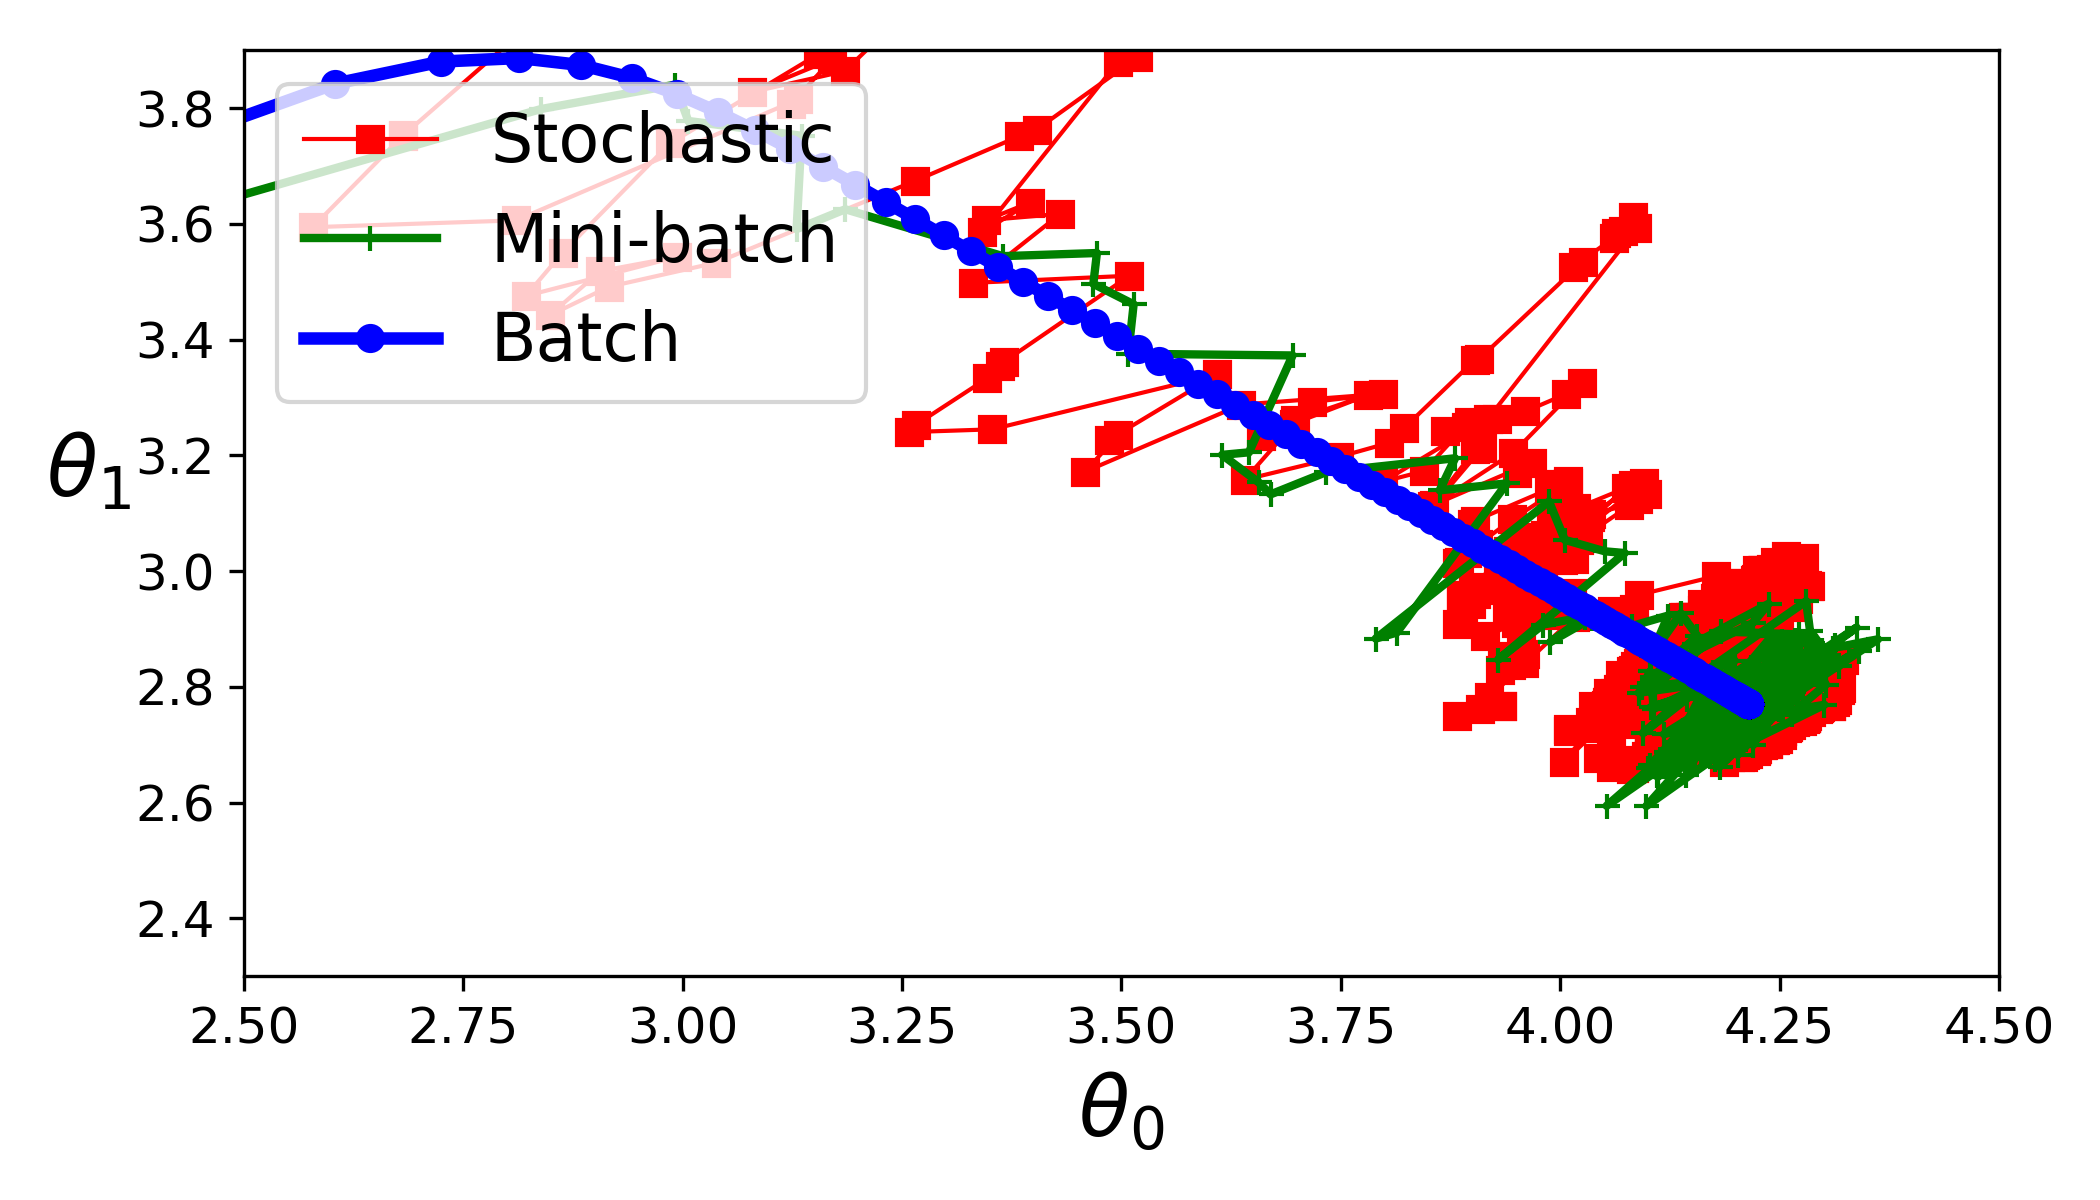
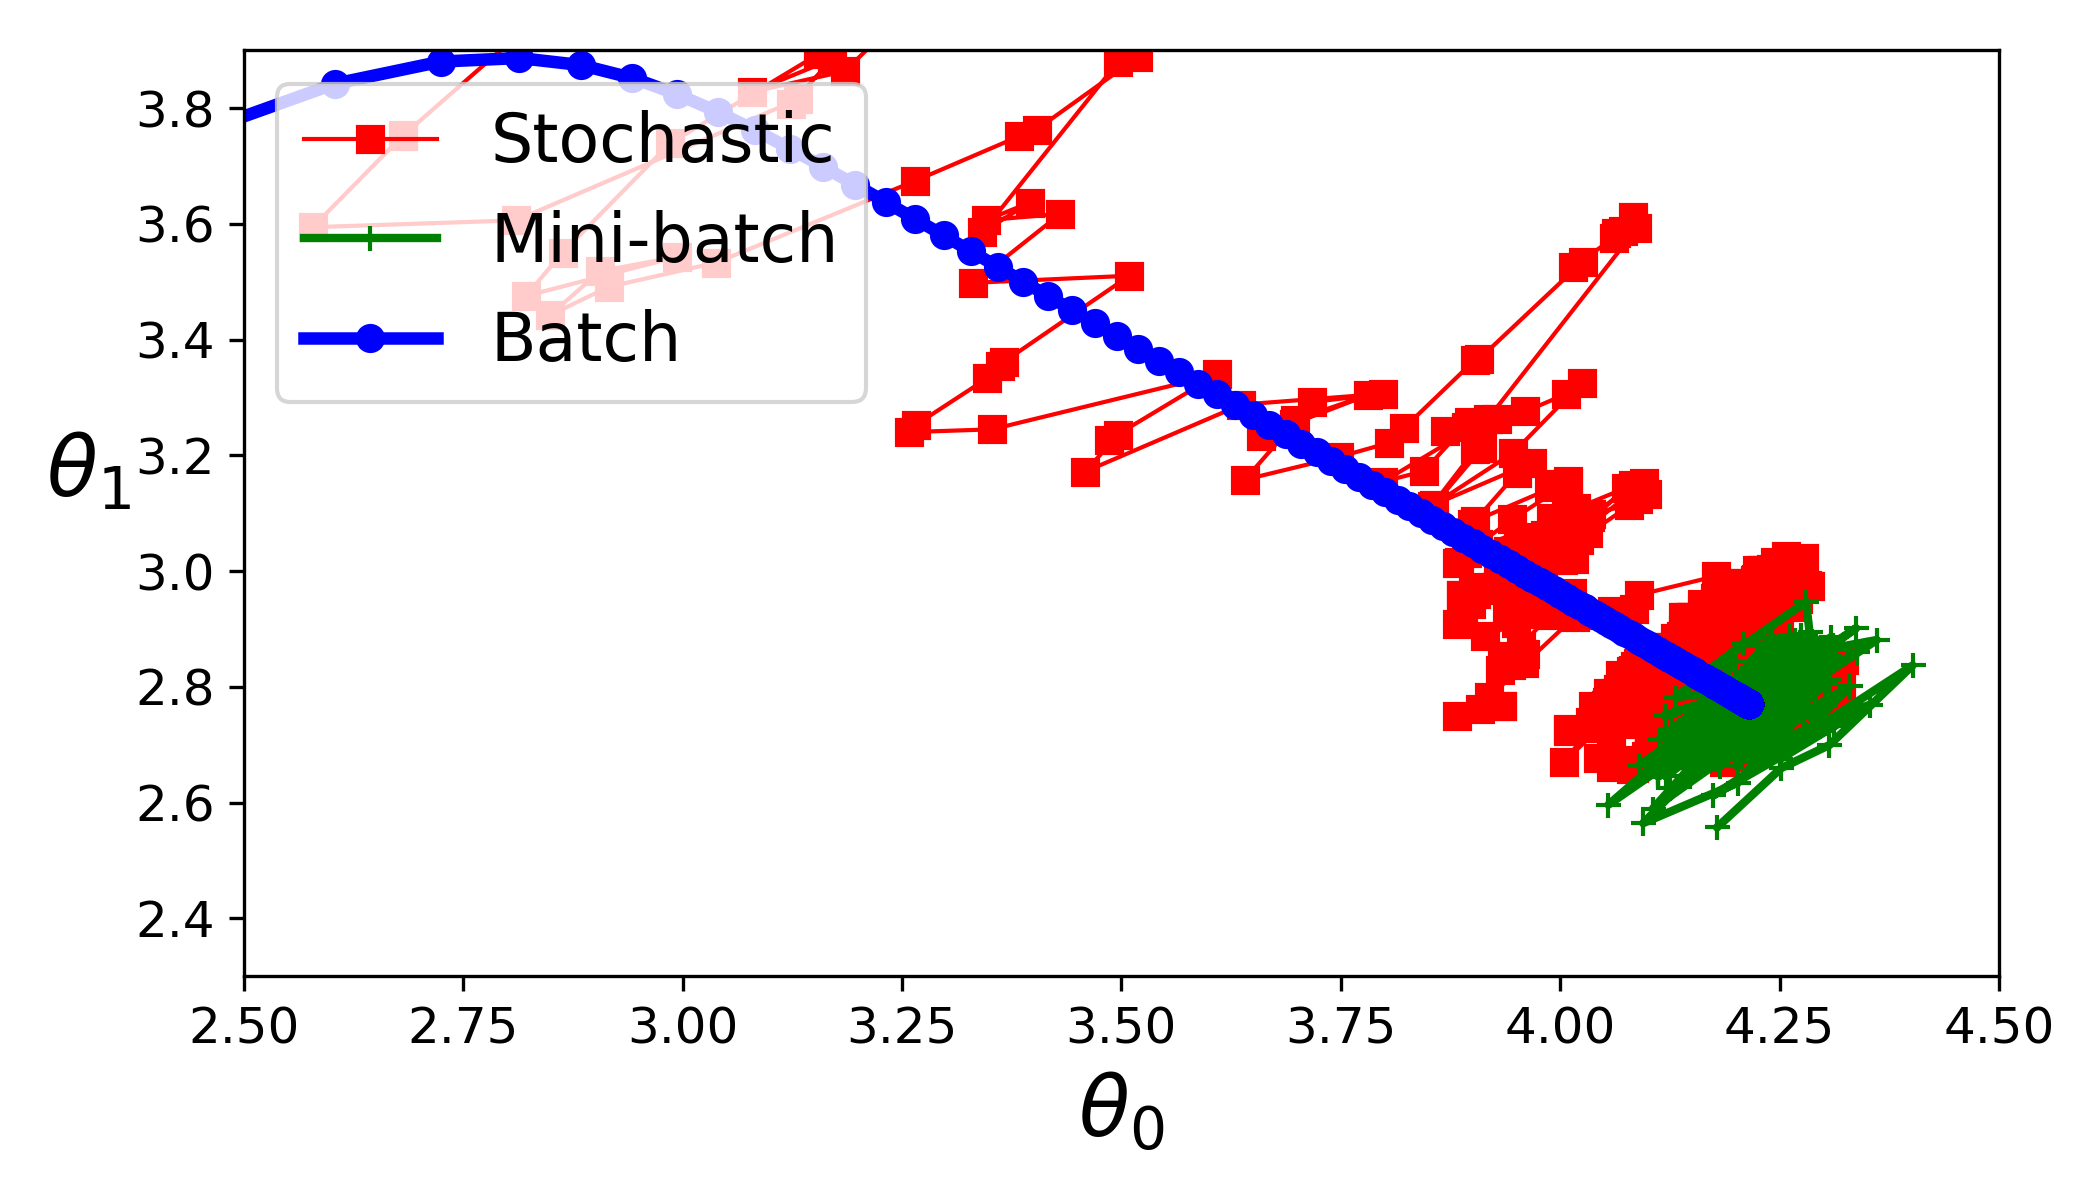
add some comments, Polynomial regression, and learning curve

diff --git a/Training_Linear_modells/Training_linear_modell.py b/Training_Linear_modells/Training_linear_modell.py
@@ -5,18 +5,20 @@ import os
 import matplotlib
 import matplotlib.pyplot as plt
 import sklearn.linear_model
+import sklearn.preprocessing
+import sklearn.pipeline
 
 rnd.seed(42)
 plt.rcParams["axes.labelsize"] = 14
 plt.rcParams["xtick.labelsize"] = 12
 plt.rcParams["ytick.labelsize"] = 12
-#
+
 PROJECT_ROOT_DIR = os.getcwd()
 
 
 def save_fig(fig_id, tight_layout=True):
     """
-
+    Save plot as .png file.
     :param fig_id: must be a String
     :param tight_layout: Automatically adjust subplot parameters to give specified padding.
     :return:
@@ -32,8 +34,8 @@ def save_fig(fig_id, tight_layout=True):
 
 
 # generate some linear-looking data to test normal equation.
-X = 2 * np.random.rand(100, 1)
-y = 4 + 3 * X + np.random.randn(100, 1)
+X = 2 * np.random.rand(100, 1)  # Generate 100 rows 1 column, column vector like.
+y = 4 + 3 * X + np.random.randn(100, 1)  # randn() generate standard normal distribution
 
 plt.plot(X, y, "b.")
 plt.xlabel("$x_1$", fontsize=18)
@@ -42,8 +44,8 @@ plt.axis([0, 2, 0, 15])
 save_fig("generated_data_plot")
 
 # Now compute the Normal Equation.
-X_b = np.c_[np.ones((100, 1)), X]  # add x0=1 to each instance
-theta_best = np.linalg.inv(X_b.T.dot(X_b)).dot(X_b.T).dot(y)
+X_b = np.c_[np.ones((100, 1)), X]  # add x0=1 to each instance.
+theta_best = np.linalg.inv(X_b.T.dot(X_b)).dot(X_b.T).dot(y)  # Normal equations
 
 print(theta_best)
 """
@@ -54,7 +56,7 @@ close enough to y = 4 + 3x, the noise make it impossible to get exact 4 and 3.
 
 # Now use the best theta to predict.
 X_new = np.array([[0], [2]])
-X_new_b = np.c_[np.ones((2, 1)), X_new]  # add x0=1 to each instance
+X_new_b = np.c_[np.ones((2, 1)), X_new]  # add x0=1 to each instance  np.c_按行拼贴，即将两个数组的列并在一起
 y_predict = X_new_b.dot(theta_best)
 print(y_predict)
 
@@ -72,6 +74,7 @@ lin_reg.fit(X, y)
 print(lin_reg.intercept_)
 print(lin_reg.coef_)
 lin_reg.predict(X_new)
+
 # End
 
 
@@ -92,10 +95,10 @@ def plot_gradient_descent(theta, eta, theta_path=None, steps=10, n_iterations=10
     for iteration in range(n_iterations):
         if iteration < steps:
             y_predict = X_new_b.dot(theta)
-            style = "b-" if iteration > 0 else "r--"
+            style = "b-" if iteration > 0 else "r--"  # 第一步画红虚线，后面的画蓝线
             plt.plot(X_new, y_predict, style)
-        gradients = 2 / m * X_b.T.dot(X_b.dot(theta) - y)
-        theta = theta - eta * gradients
+        gradients = 2 / m * X_b.T.dot(X_b.dot(theta) - y)  # Equation 4-6 s.137
+        theta = theta - eta * gradients  # Equation 4-7
         if theta_path is not None:
             theta_path.append(theta)
     plt.xlabel("$x_1$", fontsize=18)
@@ -120,12 +123,12 @@ save_fig("gradient_descent_plot")
 theta_path_sgd = []
 
 n_iterations = 50
-t0, t1 = 5, 50
 
 theta = rnd.randn(2, 1)
 
 
 def learning_schedule(t):
+    t0, t1 = 5, 50
     return t0 / (t + t1)
 
 
@@ -137,8 +140,8 @@ for epoch in range(n_iterations):
             y_predict = X_new_b.dot(theta)
             style = "b-" if i > 0 else "r--"
             plt.plot(X_new, y_predict, style)
-        random_index = rnd.randint(m)
-        xi = X_b[random_index:random_index + 1]
+        random_index = rnd.randint(m)  # 随机生成0到m间的一个整数。
+        xi = X_b[random_index:random_index + 1]  # random_index +1的作用是什么?
         yi = y[random_index: random_index + 1]
         gradients = 2 * xi.T.dot(xi.dot(theta) - yi)
         eta = learning_schedule(epoch * m + i)
@@ -164,10 +167,9 @@ minibatch_size = 20
 
 theta = rnd.randn(2, 1)
 
-t0, t1, = 10, 1000
 
-
-def learning_schedule(t):
+def learning_schedule2(t):
+    t0, t1, = 10, 1000
     return t0 / (t + t1)
 
 
@@ -178,10 +180,10 @@ for epoch in range(n_iterations):
     y_shuffled = y[shuffled_indices]
     for i in range(0, m, minibatch_size):
         t += 1
-        xi = X_b_shuffled[i:i+minibatch_size]
-        yi = y_shuffled[i:i+minibatch_size]
+        xi = X_b_shuffled[i:i + minibatch_size]
+        yi = y_shuffled[i:i + minibatch_size]
         gradients = 2 * xi.T.dot(xi.dot(theta) - yi)
-        eta = learning_schedule(t)
+        eta = learning_schedule2(t)
         theta = theta - eta * gradients
         theta_path_mgd.append(theta)
 
@@ -198,4 +200,72 @@ plt.xlabel(r"$\theta_0$", fontsize=20)
 plt.ylabel(r"$\theta_1$   ", fontsize=20, rotation=0)
 plt.axis([2.5, 4.5, 2.3, 3.9])
 save_fig("gradient_descent_paths_plot")
+
+# Polynomial Regression
+# generate some nonlinear data based on a simple quadratic equation
+rnd.seed(42)
+m = 100
+X = 6 * np.random.rand(m, 1) - 3
+y = 0.5 * X ** 2 + X + 2 + np.random.randn(m, 1)
+
+plt.plot(X, y, 'b.')
+plt.xlabel("$x_1$", fontsize=18)
+plt.ylabel("$y$", rotation=0, fontsize=18)
+plt.axis([-3, 3, 0, 10])
+save_fig("quadratic_data_plot")
+
+# Extend the data set
+poly_features = sklearn.preprocessing.PolynomialFeatures(degree=2, include_bias=False)
+X_poly = poly_features.fit_transform(X)
+print(X[0])
+print(X_poly[0])  # X_poly now contains the original feature of X plus the square of this feature.
+
+# Using Lin_reg to train the extended dataset.
+lin_reg = sklearn.linear_model.LinearRegression()
+lin_reg.fit(X_poly, y)
+print(lin_reg.intercept_, lin_reg.coef_)
+
+X_new = np.linspace(-3, 3, 100).reshape(100, 1)
+X_new_poly = poly_features.transform(X_new)
+y_new = lin_reg.predict(X_new_poly)
+plt.plot(X, y, 'b.')
+plt.plot(X_new, y_new, 'r-', linewidth=2, label="predictions")
+plt.xlabel("$x_1$", fontsize=18)
+plt.ylabel("$y$", rotation=0, fontsize=18)
+plt.legend(loc="upper left", fontsize=14)
+plt.axis([-3, 3.0, 10])
+save_fig("quadratic_predictions_plot")
+
+
+# Learning Curves
+# Define a function that plots the learning curves of a model:
+
+def plot_learning_curves(model, X, y):
+    """
+    把数据集分成训练集和验证集，分别求它们的mean squared error并作图。
+    :param model: a training model instance like LinearRegressor etc.
+    :param X: 
+    :param y:
+    :arg m: every integers smaller than the length of training set to iterate.
+    :return: 
+    """
+    X_train, X_val, y_train, y_val = sklearn.model_selection.train_test_split(X, y, test_size=0.2, random_state=10)
+    train_errors, val_errors = [], []
+    for m in range(1, len(X_train)):
+        model.fit(X_train[:m], y_train[:m])
+        y_train_predict = model.predict(X_train[:m])
+        y_val_predict = model.predict(X_val)
+        train_errors.append(sklearn.metrics.mean_squared_error(y_train_predict, y_train[:m]))
+        val_errors.append(sklearn.metrics.mean_squared_error(y_val_predict, y_val))
+
+    plt.plot(np.sqrt(train_errors), "r-+", linewidth=2, label="Training set")
+    plt.plot(np.sqrt(val_errors), "b-", linewidth=3, label="Validation set")
+    plt.legend(loc="upper right", fontsize=14)
+    plt.xlabel("Training set size", fontsize=14)
+    plt.ylabel("RMSE", fontsize=14)
+
+
+plot_learning_curves(lin_reg, X, y)
+plt.axis([0, 80, 0, 3])
+save_fig("underfitting_learning_curves_plot")
 
